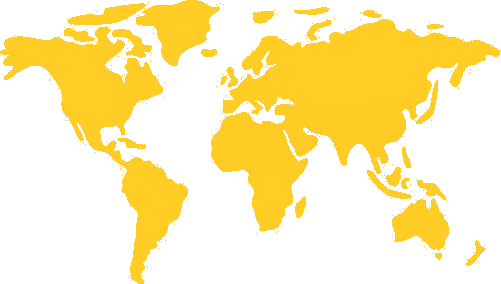
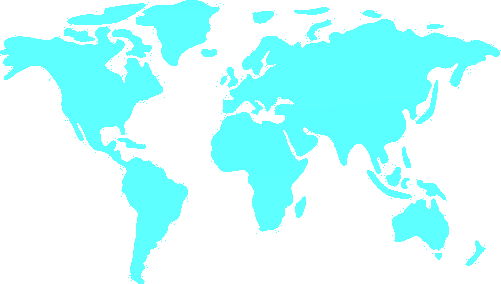
modified:   Colors.qml 	modified:   README.md 	modified:   assets/.map_last_color 	modified:   assets/map_colorized_latest.png 	modified:   assets/map_colorized_latest_dark.png 	new file:   modules/network/CommStatusButton.qml 	new file:   modules/network/SecureCommStatusButton.qml 	modified:   modu

diff --git a/modules/network/SecureCommStatusButton.qml b/modules/network/SecureCommStatusButton.qml
@@ -1,0 +1,122 @@
+// modules/network/CommStatusButton.qml
+
+import QtQuick
+import Quickshell.Io
+import "../.."
+
+// ============================================================
+// SECURE COMM STATUS BUTTON — static bar label styled to match
+// the SystemGraphs bar aesthetic (sharp rect, black border).
+// Checks Surfshark VPN activity every second.
+// ============================================================
+Item {
+    id: root
+
+    property color backgroundColor: Colors.col_background
+    property color textColor:       Colors.col_primary
+    property int  fontSize:         11
+    property color statusBarColor:  root.vpnActive ? Colors.col_source_color : Colors.col_primary
+
+    property bool vpnActive: false
+    property int  horizontalMargin: 0
+
+    // ── Surfshark VPN check ──────────────────────────────────
+    Process {
+        id: vpnCheckProc
+        running: false
+        command: [
+            "sh", "-c",
+            "if nmcli -t -f NAME,TYPE,ACTIVE con show 2>/dev/null | awk -F: '$2==\"wireguard\" && $3==\"yes\" {found=1} END{exit(found?0:1)}'; then "
+            + "echo active; "
+            + "else "
+            + "echo disconnected; "
+            + "fi"
+        ]
+        stdout: SplitParser {
+            onRead: data => {
+                root.vpnActive = data.trim() === "active"
+            }
+        }
+    }
+
+    Timer {
+        interval: 1000
+        running: true
+        repeat: true
+        triggeredOnStart: true
+        onTriggered: {
+            if (!vpnCheckProc.running) vpnCheckProc.running = true
+        }
+    }
+
+    width:  pill.width
+    height: 14
+
+    Rectangle {
+        id: pill
+        anchors.horizontalCenter: parent.horizontalCenter
+        width:        implicitLabel.implicitWidth + 5
+        height:       14
+        radius:       0
+        color:        "transparent"
+
+        Text {
+            id: implicitLabel
+            visible: false
+            text: "//SECURE LINK : DISCONNECTED"
+            font.pixelSize: root.fontSize
+            font.bold: true
+        }
+
+        Row {
+            id: statusRow
+            anchors.centerIn: parent
+            spacing: 0
+
+            Text {
+                text:           "//"
+                font.pixelSize: root.fontSize
+                font.bold:      true
+                color:          Colors.col_primary
+                anchors.verticalCenter: statusRow.verticalCenter
+            }
+
+            Text {
+                text:           "SECURE LINK :  "
+                font.pixelSize: root.fontSize
+                font.bold:      true
+                color:          Colors.col_primary
+                anchors.verticalCenter: statusRow.verticalCenter
+            }
+
+            Item {
+                id: secureStatusGraphWrap
+                width: 75
+                height: 12
+                anchors.verticalCenter: statusRow.verticalCenter
+
+                Rectangle {
+                    id: secureStatusBar
+                    anchors.fill: parent
+                    radius: 0
+                    color: Colors.col_background
+                    border.color: "black"
+                    border.width: 1
+
+                    Rectangle {
+                        id: secureStatusFill
+                        anchors.left: parent.left
+                        anchors.leftMargin: 1
+                        anchors.verticalCenter: parent.verticalCenter
+                        width: Math.max(0, Math.round((parent.width - 2) * (root.vpnActive ? 1 : 0)))
+                        height: parent.height - 2
+                        radius: 0
+                        color: root.statusBarColor
+                        Behavior on width { NumberAnimation { duration: 220; easing.type: Easing.OutCubic } }
+                    }
+                }
+            }
+        }
+    }
+
+}

diff --git a/modules/network/CommStatusButton.qml b/modules/network/CommStatusButton.qml
@@ -1,0 +1,115 @@
+// modules/network/CommStatusButton.qml
+
+import QtQuick
+import Quickshell.Io
+import "../.."
+
+// ============================================================
+// COMM STATUS BUTTON — static bar label styled to match
+// the SystemGraphs bar aesthetic (sharp rect, black border).
+// Checks internet connectivity every 5 seconds.
+// ============================================================
+Item {
+    id: root
+
+    property color backgroundColor: Colors.col_background
+    property color textColor:       Colors.col_primary
+    property int  fontSize:         11
+    property color statusBarColor:  root.online ? Colors.col_source_color : Colors.col_primary
+
+    property bool online: true
+    property int  horizontalMargin: 0
+
+    // ── Connectivity check ───────────────────────────────────
+    Process {
+        id: pingProc
+        running: false
+        command: ["sh", "-c", "ping -c 1 -W 2 1.1.1.1 > /dev/null 2>&1 && echo ok || echo fail"]
+        stdout: SplitParser {
+            onRead: data => {
+                root.online = data.trim() === "ok"
+            }
+        }
+    }
+
+    Timer {
+        interval: 5000
+        running: true
+        repeat: true
+        triggeredOnStart: true
+        onTriggered: {
+            if (!pingProc.running) pingProc.running = true
+        }
+    }
+
+    width:  pill.width
+    height: 14
+
+    Rectangle {
+        id: pill
+        anchors.horizontalCenter: parent.horizontalCenter
+        width:        implicitLabel.implicitWidth + 5
+        height:       14
+        radius:       0
+        color:        "transparent"
+
+        Text {
+            id: implicitLabel
+            visible: false
+            text: "//COMMS LINK : DISCONNECTED"
+            font.pixelSize: root.fontSize
+            font.bold: true
+        }
+
+        Row {
+            id: statusRow
+            anchors.centerIn: parent
+            spacing: 0
+
+            Text {
+                text:           "//"
+                font.pixelSize: root.fontSize
+                font.bold:      true
+                color:          Colors.col_primary
+                anchors.verticalCenter: statusRow.verticalCenter
+            }
+
+            Text {
+                text:           "COMM LINK 1 :  "
+                font.pixelSize: root.fontSize
+                font.bold:      true
+                color:          Colors.col_primary
+                anchors.verticalCenter: statusRow.verticalCenter
+            }
+
+            Item {
+                id: statusGraphWrap
+                width: 75
+                height: 12
+                anchors.verticalCenter: statusRow.verticalCenter
+
+                Rectangle {
+                    id: commStatusBar
+                    anchors.fill: parent
+                    radius: 0
+                    color: Colors.col_background
+                    border.color: "black"
+                    border.width: 1
+
+                    Rectangle {
+                        id: commStatusFill
+                        anchors.left: parent.left
+                        anchors.leftMargin: 1
+                        anchors.verticalCenter: parent.verticalCenter
+                        width: Math.max(0, Math.round((parent.width - 2) * (root.online ? 1 : 0)))
+                        height: parent.height - 2
+                        radius: 0
+                        color: root.statusBarColor
+                        Behavior on width { NumberAnimation { duration: 220; easing.type: Easing.OutCubic } }
+                    }
+                }
+            }
+        }
+    }
+
+}

diff --git a/shell.qml b/shell.qml
@@ -329,11 +329,11 @@ ShellRoot {
                 top: parent.top
                 left: parent.left
                 right: parent.right
-                topMargin: 16
-                leftMargin: 15
-                rightMargin: 15
+                topMargin: 15
+                leftMargin: 14
+                rightMargin: 14
             }
-            height: 37
+            height: 39
             //radius: 12
             radius: 0
             color: "#000000"
@@ -438,12 +438,22 @@ ShellRoot {
                         rightMargin: 4
                         verticalCenter: parent.verticalCenter
                     }
-                    spacing: 12
+                    spacing: 10
 
                     // SYSTEM UPDATES BUTTON
                     SystemUpdatesButton {
                         id: systemUpdatesButton
                         numberToText: false
+                    }
+
+                    // COMM STATUS BUTTON
+                    CommStatusButton {
+                        anchors.verticalCenter: parent.verticalCenter
+                    }
+
+                    // SECURE COMM STATUS BUTTON
+                    SecureCommStatusButton {
+                        anchors.verticalCenter: parent.verticalCenter
                     }
 
                     // BLUETOOTH BUTTON

diff --git a/modules/systemGraphs/SystemGraphsPanel.qml b/modules/systemGraphs/SystemGraphsPanel.qml
@@ -16,16 +16,16 @@ Item {
     property int tempC: 0
     property string tempText: "--°C"
     readonly property int tempPercent: _clampPercent(tempC)
-    property int panelHeight: 10
-    property int labelFontSize: 10
+    property int panelHeight: 12
+    property int labelFontSize: 11
     property int iconFontSize: 12
     property bool showLabelText: true
     property color graphBackgroundColor: Colors.col_background
     property color graphFillColor: Colors.col_source_color
     property bool cpuGlowOn: false
     property bool tempGlowOn: false
-    readonly property color cpuGraphFillColor: cpuPercent >= 80 ? "#ff0000" : graphs.graphFillColor
-    readonly property color tempGraphFillColor: tempC >= 80 ? "#ff0000" : graphs.graphFillColor
+    readonly property color cpuGraphFillColor: cpuPercent >= 80 ? "#ff4444" : graphs.graphFillColor
+    readonly property color tempGraphFillColor: tempC >= 80 ? "#ff4444" : graphs.graphFillColor
     property color graphTextColor: Colors.col_primary
     readonly property int barWidth: 75
     readonly property int labelGap: 5

diff --git a/Colors.qml b/Colors.qml
@@ -7,8 +7,8 @@ import QtQuick
 // Access from any QML file that imports the root module:
 //   Colors.col_primary  Colors.col_source_color  etc.
 Singleton {
-    property color col_background: "#161311"
-    property color col_source_color: "#eb7e01"
-    property color col_primary: "#ffcf99"
-    property color col_main: "#2e251e"
+    property color col_background: "#121413"
+    property color col_source_color: "#2decec"
+    property color col_primary: "#a1f7f7"
+    property color col_main: "#222a2a"
 }

diff --git a/README.md b/README.md
@@ -8,6 +8,16 @@ Last Updated: June 1, 2026
 
 ## What Changed Recently
 
+- Removed network status flash effects in `modules/network/CommStatusButton.qml` and `modules/network/SecureCommStatusButton.qml` while keeping bar fill animations.
+- Aligned network status row text/graph vertically and resized mini graphs in `modules/network/CommStatusButton.qml` and `modules/network/SecureCommStatusButton.qml` to match `systemGraphs` bar size (75x12).
+- Replaced status words in `modules/network/CommStatusButton.qml` and `modules/network/SecureCommStatusButton.qml` with SystemGraphs-style mini bar indicators.
+- Added connected status animation for `modules/network/CommStatusButton.qml` and `modules/network/SecureCommStatusButton.qml`: flashes white 3 times, then fades to the source color.
+- Added disconnected status animation for `modules/network/CommStatusButton.qml` and `modules/network/SecureCommStatusButton.qml`: flashes red 3 times, then fades to the primary color.
+- Adjusted `modules/network/SecureCommStatusButton.qml` so the ESTABLISHED/DISCONNECTED status text is rendered 1px lower for visual alignment.
+- Adjusted `modules/network/CommStatusButton.qml` so the ACTIVE/DISCONNECTED status text is rendered 1px lower for visual alignment.
+- Aligned `modules/network/SecureCommStatusButton.qml` VPN detection with dashboard network tab logic by checking active WireGuard connections from `nmcli`.
+- Fixed false-positive VPN detection in `modules/network/SecureCommStatusButton.qml` by removing process-name checks and requiring actual connected status.
+- Updated `modules/network/SecureCommStatusButton.qml` to check Surfshark active/disconnected status every second.
 - Added and integrated system graphs in the left bar section (`CPU`, `RAM`, `Volume`, `Temp`) via `modules/systemGraphs/SystemGraphsPanel.qml`.
 - Updated the top bar composition in `shell.qml`:
   - `SystemGraphsPanel` is now active.
